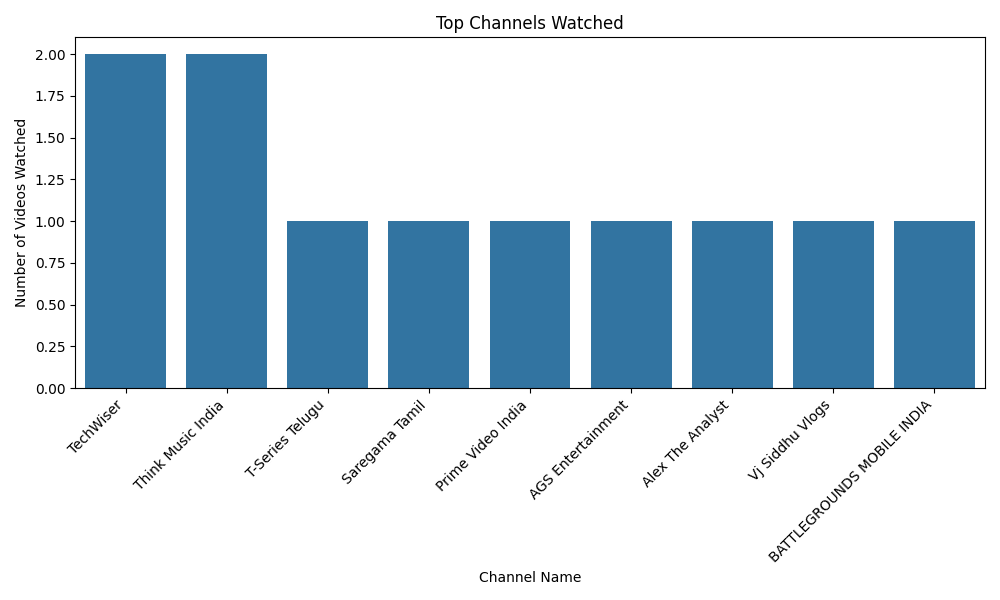
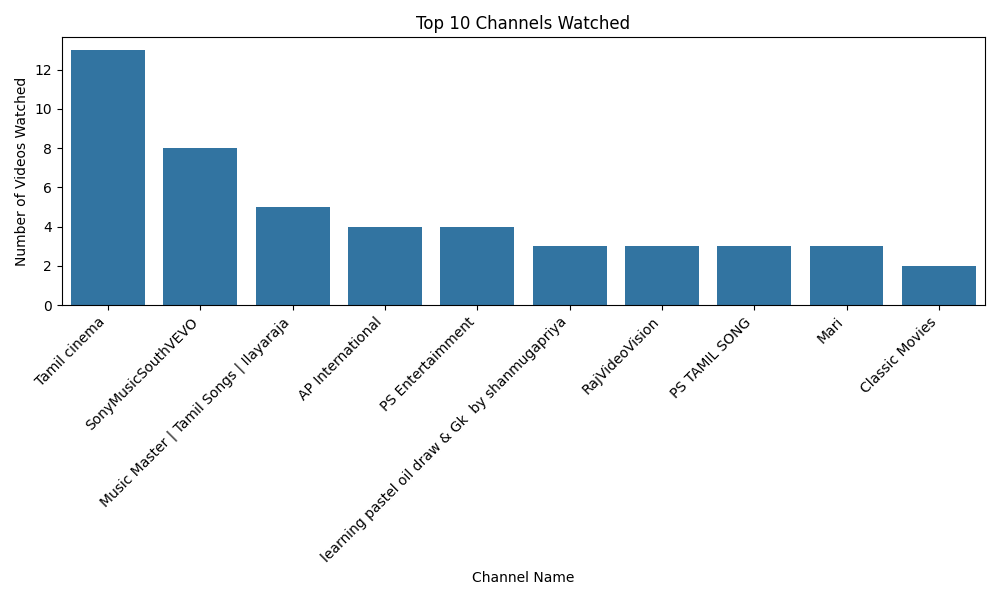
analysed and stored

diff --git a/templates/result.html b/templates/result.html
@@ -7,29 +7,30 @@
     <h1>Exploratory Data Analysis Result</h1>
     <p>Top Channel: {{ result.top_channel }}</p>
 
-    <h2>Total Time Spent per Month</h2>
+    <h2>Total Videos Watched per Month</h2>
     <ul>
         {% for month, count in result.total_time_per_month.items() %}
         <li>{{ month }}: {{ count }}</li>
         {% endfor %}
     </ul>
 
-    <h2>Total Time Spent per Year</h2>
+    <h2>Total Videos Watched per Year</h2>
     <ul>
         {% for year, count in result.total_time_per_year.items() %}
         <li>{{ year }}: {{ count }}</li>
         {% endfor %}
     </ul>
 
-    <p>Highest Watch Hour Date: {{ result.highest_watch_hour_date }}</p>
+    <p>Highest Watch Date: {{ result.highest_watch_hour_date }}</p>
 
-    <h2>Total Watch Hours</h2>
+    <!-- <h2>Total Watch Hours</h2>
     <ul>
         {% for hour, count in result.total_watch_hours.items() %}
         <li>{{ hour }}: {{ count }}</li>
         {% endfor %}
-    </ul>
-
+    </ul> -->
+    <h2>Most Frequently Replayed Video</h2>
+    <p>Most Frequently Replayed Video: {{ result.frequency_most_replayed }}</p>
     <h2>Visualizations</h2>
     <div>
         <h3>Top Channels Watched</h3>

diff --git a/app.py b/app.py
@@ -80,19 +80,20 @@ def upload_file():
         df['year'] = df['time'].dt.year
 
         # Analysis
-        top_channel_counts = df['subtitles'].apply(lambda x: x[0]['name'] if isinstance(x, list) else None).value_counts()
+        top_channel_counts = df['subtitles'].apply(lambda x: x[0]['name'] if isinstance(x, list) else None).value_counts().head(10)
         total_time_per_month = df.groupby('month').size()
         total_time_per_year = df.groupby('year').size()
         highest_watch_hour_date = df.groupby('date').size().idxmax()
         total_watch_hours = df['hour'].value_counts().sort_index()
-
+        frequency_most_replayed = df['title'].value_counts().max()
+        
         # Visualization
         color_palette = sns.color_palette("viridis", as_cmap=True)
 
         # 1. Top Channel Bar Chart
         plt.figure(figsize=(10, 6))
         sns.barplot(x=top_channel_counts.index, y=top_channel_counts.values)
-        plt.title("Top Channels Watched")
+        plt.title("Top 10 Channels Watched")
         plt.xlabel("Channel Name")
         plt.ylabel("Number of Videos Watched")
         plt.xticks(rotation=45, ha='right')
@@ -104,9 +105,9 @@ def upload_file():
         # 2. Total Time Watched Per Month Line Chart
         plt.figure(figsize=(10, 6))
         total_time_per_month.plot(kind='line', marker='o', color=color_palette(0.5))
-        plt.title("Total Time Watched Per Month")
+        plt.title("Total Videos Watched Per Month")
         plt.xlabel("Month")
-        plt.ylabel("Total Time Watched")
+        plt.ylabel("Total Videos Watched")
         plt.grid(True)
         total_time_per_month_plot_path = os.path.join(app.config['RESULT_FOLDER'], 'total_time_per_month_plot.png')
         plt.savefig(total_time_per_month_plot_path)
@@ -115,9 +116,9 @@ def upload_file():
         # 3. Total Time Watched Per Year Bar Chart
         plt.figure(figsize=(10, 6))
         total_time_per_year.plot(kind='bar', color=color_palette(0.5))
-        plt.title("Total Time Watched Per Year")
+        plt.title("Total Videos Watched Per Year")
         plt.xlabel("Year")
-        plt.ylabel("Total Time Watched")
+        plt.ylabel("Total Videos Watched")
         plt.xticks(rotation=0)
         total_time_per_year_plot_path = os.path.join(app.config['RESULT_FOLDER'], 'total_time_per_year_plot.png')
         plt.savefig(total_time_per_year_plot_path)
@@ -126,7 +127,7 @@ def upload_file():
         # 4. Watch Time Distribution by Hour
         plt.figure(figsize=(10, 6))
         total_watch_hours.plot(kind='bar', color=color_palette(0.5))
-        plt.title("Watch Time Distribution by Hour")
+        plt.title("Watch Videos Distribution by Hour")
         plt.xlabel("Hour of the Day")
         plt.ylabel("Number of Videos Watched")
         plt.xticks(rotation=0)
@@ -144,6 +145,7 @@ def upload_file():
             'total_time_per_month_plot_path': total_time_per_month_plot_path,
             'total_time_per_year_plot_path': total_time_per_year_plot_path,
             'total_watch_hours_plot_path': total_watch_hours_plot_path,
+            'frequency_most_replayed': frequency_most_replayed, 
         }
 
         os.remove(file_path)
